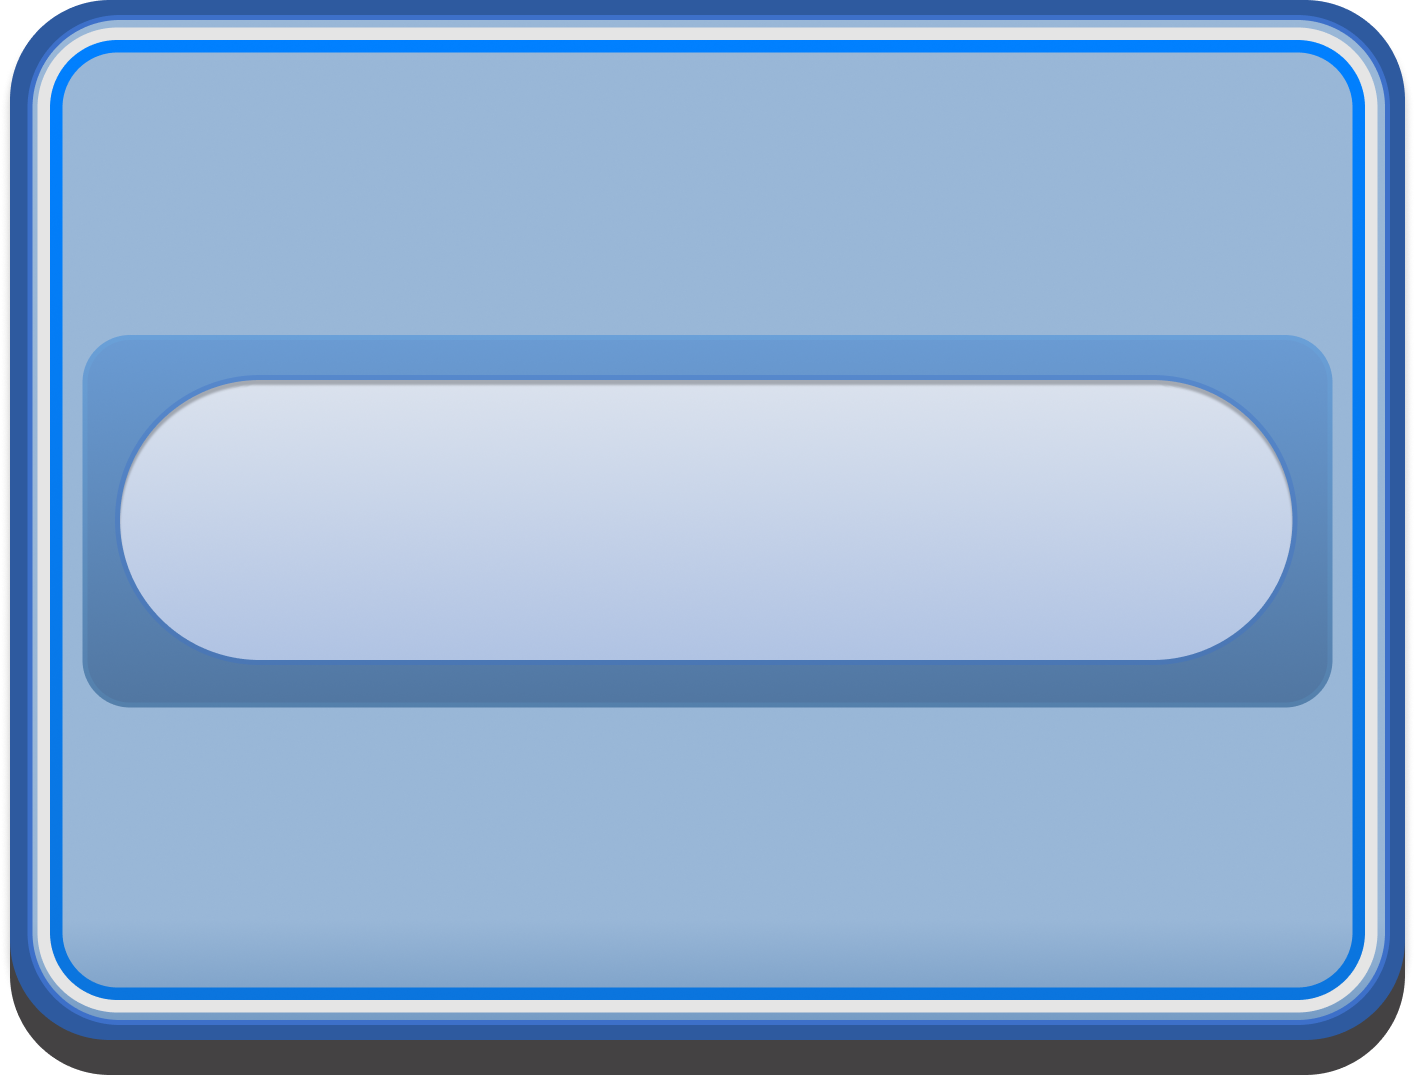
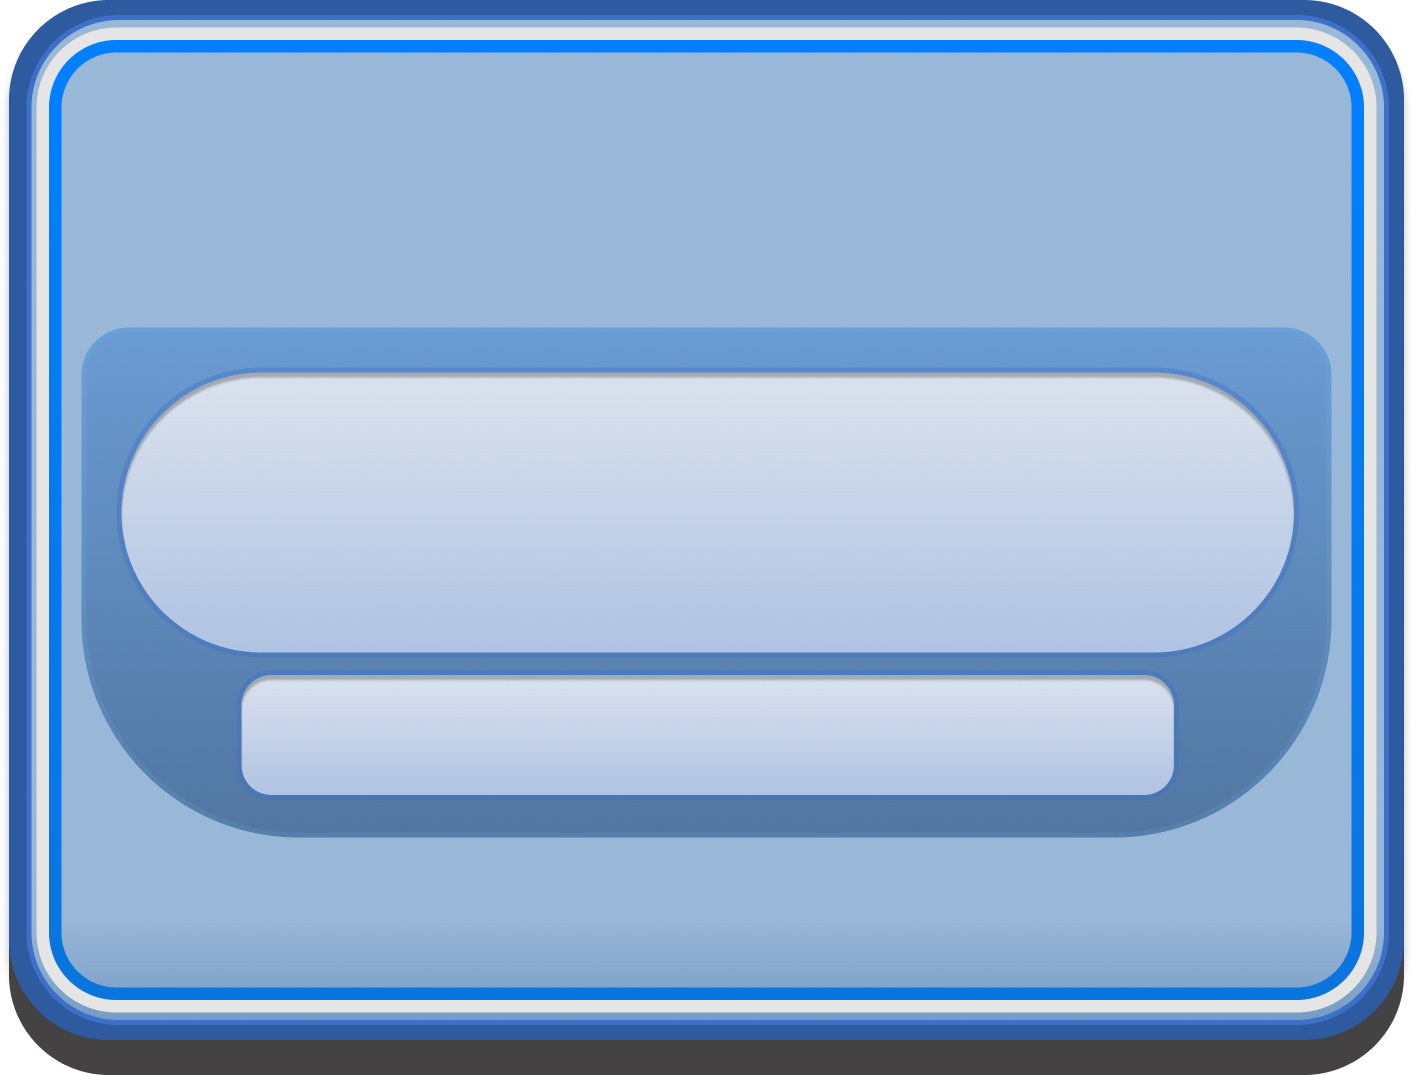
new ui result

diff --git a/src/components/checkGenerator.tsx b/src/components/checkGenerator.tsx
@@ -233,7 +233,7 @@ export default function CheckBrainrot() {
               className="absolute z-[-1] drop-shadow-4xl"
             />
 
-            <div className="absolute mt-[1.5%] w-[100%] h-[30%] flex items-center justify-center">
+            <div className="absolute mt-[2%] w-[100%] h-[30%] flex items-center justify-center">
               <div className="flex flex-col text-center">
                 <p className="text-2xl font-bold">
                   {inputName
@@ -248,29 +248,36 @@ export default function CheckBrainrot() {
               </div>
             </div>
 
-            <div className="absolute mt-[21%] w-[100%] h-[40%] flex items-center justify-center text-4xl font-bold">
+            <div className="absolute mt-[26%] w-[100%] h-[27%] flex items-center justify-center text-4xl font-bold">
               <TextStyle
                 nameText={resultName.toUpperCase()}
               />
             </div>
 
-            <div className="absolute mt-[51%] w-[100%] h-[25%] flex items-center justify-center">
-              <motion.div
-                variants={variants3}
-                initial="slideStart"
-                animate={
-                  isOpen
-                    ? "slideEnd"
-                    : "slideStart"
-                }
-                transition={{
-                  duration: 0.5,
-                  delay: 6.5,
-                }}
-              >
-                <a href="/">Ulangi</a>
-              </motion.div>
+            <div className="absolute mt-[47%] w-[100%] h-[13%] flex items-center justify-center text-xl font-bold">
+              <p>{resultAura}</p>
             </div>
+
+            <motion.div
+              variants={variants3}
+              initial="slideStart"
+              animate={
+                isOpen ? "slideEnd" : "slideStart"
+              }
+              transition={{
+                duration: 0.5,
+                delay: 6.5,
+              }}
+            >
+              <div className="absolute mt-[55.5%] w-[100%] h-[25%] flex items-center justify-center hover:font-semibold ease-out duration-300">
+                <a href="/">
+                  <span className="mr-[0.3rem]">
+                    Ulangi
+                  </span>
+                  <i className="text-xs fa-solid fa-rotate-right"></i>
+                </a>
+              </div>
+            </motion.div>
           </div>
         </div>
       </motion.div>

diff --git a/src/app/test/page.tsx b/src/app/test/page.tsx
@@ -1,17 +1,55 @@
 import style from "@/components/css/loading.module.css";
+import TextStyle from "@/components/textstyle";
+import Image from "next/image";
 
 export default function Loading() {
   return (
     <>
-      <main className="flex items-center min-h-[100vh]">
-        <section className={style.dotscontainer}>
-          <div className={style.dot}></div>
-          <div className={style.dot}></div>
-          <div className={style.dot}></div>
-          <div className={style.dot}></div>
-          <div className={style.dot}></div>
-        </section>
-      </main>
+      <div className="flex items-center justify-center h-[100vh]">
+        <div className="relative w-[29rem] aspect-[1414/1075] mx-6">
+          <Image
+            src="/img/box_result.png"
+            alt="logo"
+            width={0}
+            height={0}
+            priority
+            sizes="100vw"
+            style={{
+              width: "100%",
+              height: "auto",
+            }}
+            className="absolute z-[-1] drop-shadow-4xl"
+          />
+
+          <div className="absolute mt-[2%] w-[100%] h-[30%] flex items-center justify-center">
+            <div className="flex flex-col text-center">
+              <p className="text-2xl font-bold">
+                Santos ,
+              </p>
+              <p className="text-xl">
+                Kamu Adalah:{" "}
+              </p>
+            </div>
+          </div>
+
+          <div className="absolute mt-[26%] w-[100%] h-[27%] flex items-center justify-center text-4xl font-bold">
+            <TextStyle nameText="SANTOS" />
+          </div>
+
+          <div className="absolute mt-[47%] w-[100%] h-[13%] flex items-center justify-center text-xl font-bold">
+            <p>0000 aura</p>
+          </div>
+
+          <div className="absolute mt-[55.5%] w-[100%] h-[25%] flex items-center justify-center hover:font-semibold ease-out duration-300">
+            <a href="/">
+              <span className="mr-[0.3rem]">
+                Ulangi
+              </span>
+              <i className="text-xs fa-solid fa-rotate-right"></i>
+            </a>
+          </div>
+        </div>
+      </div>
     </>
   );
 }

diff --git a/src/components/textstyle.tsx b/src/components/textstyle.tsx
@@ -8,17 +8,17 @@ export default function TextStyle({
       <style>
         {`
           .textOutline {
-            -webkit-text-stroke: 3px red;
+            -webkit-text-stroke: 3px #424442;
             text-stroke: 2px blue;
           }
         `}
       </style>
 
       <div className="relative flex">
-        <h1 className="p-2 bangers text-5xl tracking-[0.2rem] bg-gradient-to-r from-blue-600 via-green-500 to-indigo-400 inline-block text-transparent bg-clip-text z-20">
+        <h1 className="p-2 text-4xl tracking-[0.1rem] bg-gradient-to-t from-stone-500 to-stone-200 inline-block text-transparent bg-clip-text z-20">
           {nameText}
         </h1>
-        <h1 className="absolute bangers p-2 text-5xl tracking-[0.2rem] textOutline">
+        <h1 className="absolute p-2 text-4xl tracking-[0.1rem] textOutline">
           {nameText}
         </h1>
       </div>

diff --git a/src/app/layout.tsx b/src/app/layout.tsx
@@ -1,18 +1,10 @@
 import type { Metadata } from "next";
-import {
-  Lexend,
-  Bangers,
-} from "next/font/google";
+import { Lexend } from "next/font/google";
 import "./globals.css";
 import AppBgImg from "@/components/background";
 import Navbar from "@/components/navbar";
 
 const lexend = Lexend({ subsets: ["latin"] });
-const bangers = Bangers({
-  weight: "400",
-  subsets: ["latin"],
-  variable: "--font-bangers",
-});
 
 export const metadata: Metadata = {
   title: "Create Next App",
@@ -30,9 +22,7 @@ export default function RootLayout({
         name="viewport"
         content="width=device-width, initial-scale=1.0, user-scalable=no"
       ></meta>
-      <body
-        className={`${lexend.className} ${bangers.variable}`}
-      >
+      <body className={lexend.className}>
         <Navbar />
         <AppBgImg />
         {children}

diff --git a/src/app/globals.css b/src/app/globals.css
@@ -2,10 +2,6 @@
 @tailwind components;
 @tailwind utilities;
 
-.bangers {
-  font-family: var(--font-bangers);
-}
-
 body {
   @apply text-primary;
 }
